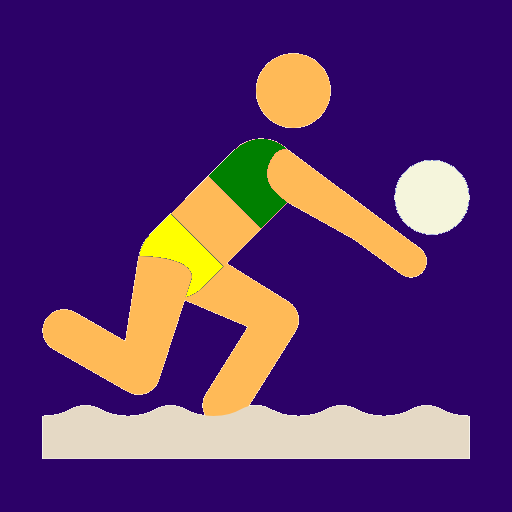
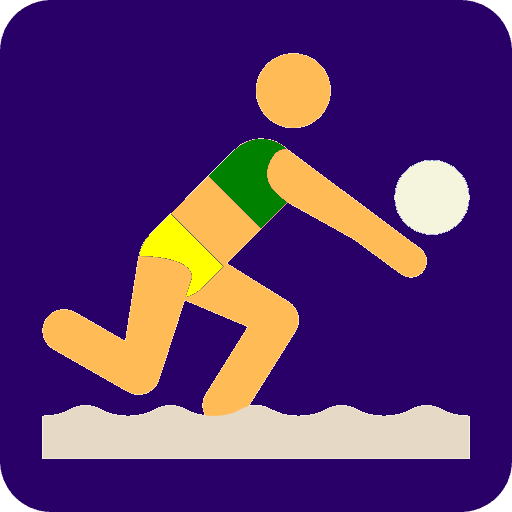
Clean up

diff --git a/src/pages/joined.tsx b/src/pages/joined.tsx
@@ -1,13 +1,10 @@
-import { type InferGetStaticPropsType, type NextPage } from "next";
 import { useSession } from "next-auth/react";
-
 import { useRouter } from "next/router";
 import { Bookings } from "~/components/Bookings";
 import { api } from "~/utils/api";
 import { SubHeader } from "~/components/SubHeader";
 import { serverSideHelpers } from "~/utils/staticPropsUtil";
 import { PageLoader } from "~/components/PageLoader";
-import { SharedHead } from "~/components/SharedHead";
 
 export async function getStaticProps() {
   await serverSideHelpers.booking.getAll.prefetch();
@@ -48,13 +45,10 @@ const Joined = () => {
   }
 
   return (
-    <>
-      <SharedHead />
-      <main className="min-w-sm flex min-w-fit flex-col">
-        <SubHeader title="Joined" />
-        <Bookings bookings={bookings || []} />
-      </main>
-    </>
+    <main className="min-w-sm flex min-w-fit flex-col">
+      <SubHeader title="Joined" />
+      <Bookings bookings={bookings || []} />
+    </main>
   );
 };
 

diff --git a/src/pages/_app.tsx b/src/pages/_app.tsx
@@ -5,6 +5,7 @@ import { SessionProvider } from "next-auth/react";
 import { api } from "~/utils/api";
 import { Layout } from "~/components/Layout";
 import "~/styles/globals.css";
+import { SharedHead } from "~/components/SharedHead";
 
 const MyApp: AppType<{ session: Session | null }> = ({
   Component,
@@ -12,6 +13,7 @@ const MyApp: AppType<{ session: Session | null }> = ({
 }) => {
   return (
     <SessionProvider session={session}>
+      <SharedHead />
       <Layout>
         <Component {...pageProps} />
       </Layout>

diff --git a/src/components/SharedHead.tsx b/src/components/SharedHead.tsx
@@ -18,7 +18,7 @@ export const SharedHead = ({ title, description }: Props) => {
       <meta name="apple-mobile-web-app-capable" content="yes" />
       <meta name="mobile-web-app-capable" content="yes" />
       <meta name="apple-mobile-web-app-status-bar-style" content="black" />
-      <link rel="apple-touch-icon" href="/beach-player-generic.png" />
+      <link rel="apple-touch-icon" href="/logo.png" />
       <link rel="icon" href="/favicon.ico" />
     </Head>
   );

diff --git a/src/pages/created.tsx b/src/pages/created.tsx
@@ -48,13 +48,10 @@ const Created = () => {
   }
 
   return (
-    <>
-      <SharedHead />
-      <main className="min-w-sm flex min-w-fit flex-col">
-        <SubHeader title="Booked by me" />
-        <Bookings bookings={bookings || []} />
-      </main>
-    </>
+    <main className="min-w-sm flex min-w-fit flex-col">
+      <SubHeader title="Booked by me" />
+      <Bookings bookings={bookings || []} />
+    </main>
   );
 };
 

diff --git a/src/pages/settings.tsx b/src/pages/settings.tsx
@@ -48,13 +48,10 @@ const Settings = () => {
   }
 
   return (
-    <>
-      <SharedHead />
-      <main className="min-w-sm flex min-w-fit flex-col">
-        <SubHeader title="Settings" />
-        <EmailConsents />
-      </main>
-    </>
+    <main className="min-w-sm flex min-w-fit flex-col">
+      <SubHeader title="Settings" />
+      <EmailConsents />
+    </main>
   );
 };
 

diff --git a/src/pages/history.tsx b/src/pages/history.tsx
@@ -33,13 +33,10 @@ const History = () => {
   }
 
   return (
-    <>
-      <SharedHead />
-      <main>
-        <SubHeader title="History" />
-        <Bookings bookings={bookings || []} />
-      </main>
-    </>
+    <main className="min-w-sm flex min-w-fit flex-col">
+      <SubHeader title="History" />
+      <Bookings bookings={bookings || []} />
+    </main>
   );
 };
 

diff --git a/src/pages/booking.tsx b/src/pages/booking.tsx
@@ -216,12 +216,6 @@ const Booking = () => {
 
   return (
     <>
-      <SharedHead />
-      <Head>
-        <title>Beach bookings</title>
-        <meta name="description" content="Generated by create-t3-app" />
-        <link rel="icon" href="/favicon.ico" />
-      </Head>
       <SubHeader
         title={router.query.booking ? "Change booking" : "Add booking"}
       />

diff --git a/src/pages/index.tsx b/src/pages/index.tsx
@@ -41,12 +41,9 @@ const Home = () => {
   }
 
   return (
-    <>
-      <SharedHead />
-      <main className="min-w-sm flex min-w-fit flex-col">
-        <Bookings bookings={data} />
-      </main>
-    </>
+    <main className="min-w-sm flex min-w-fit flex-col">
+      <Bookings bookings={data} />
+    </main>
   );
 };
 
